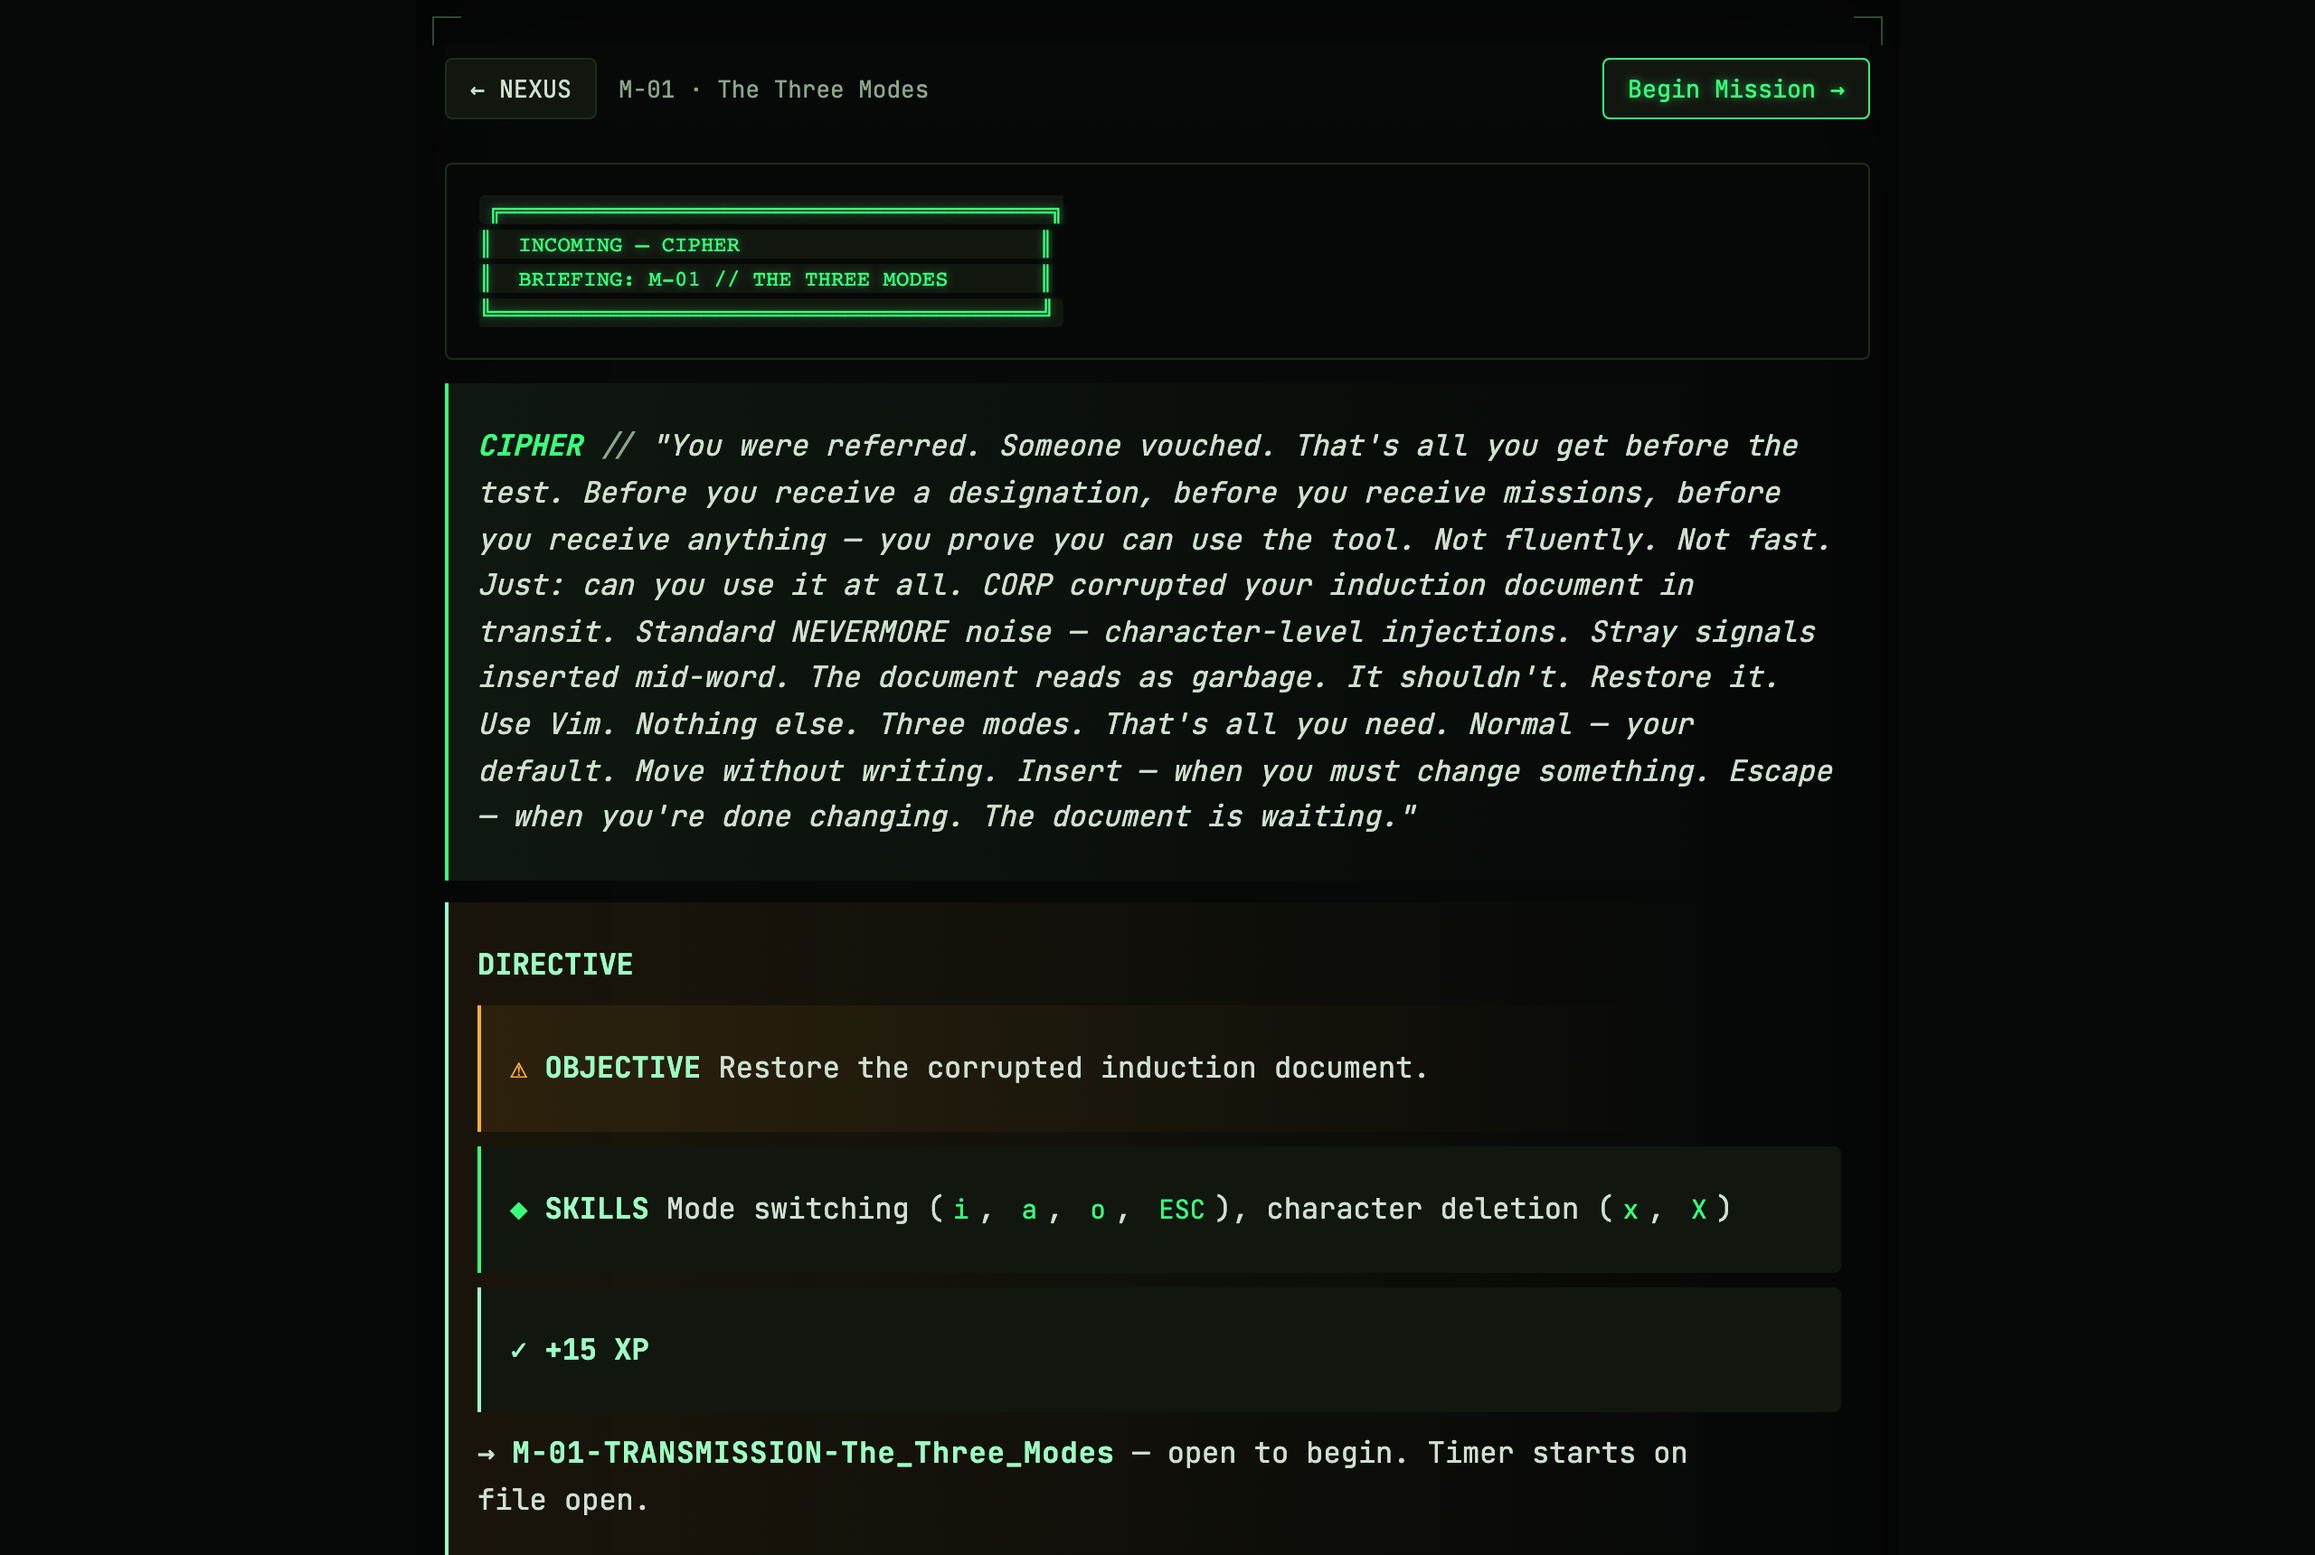
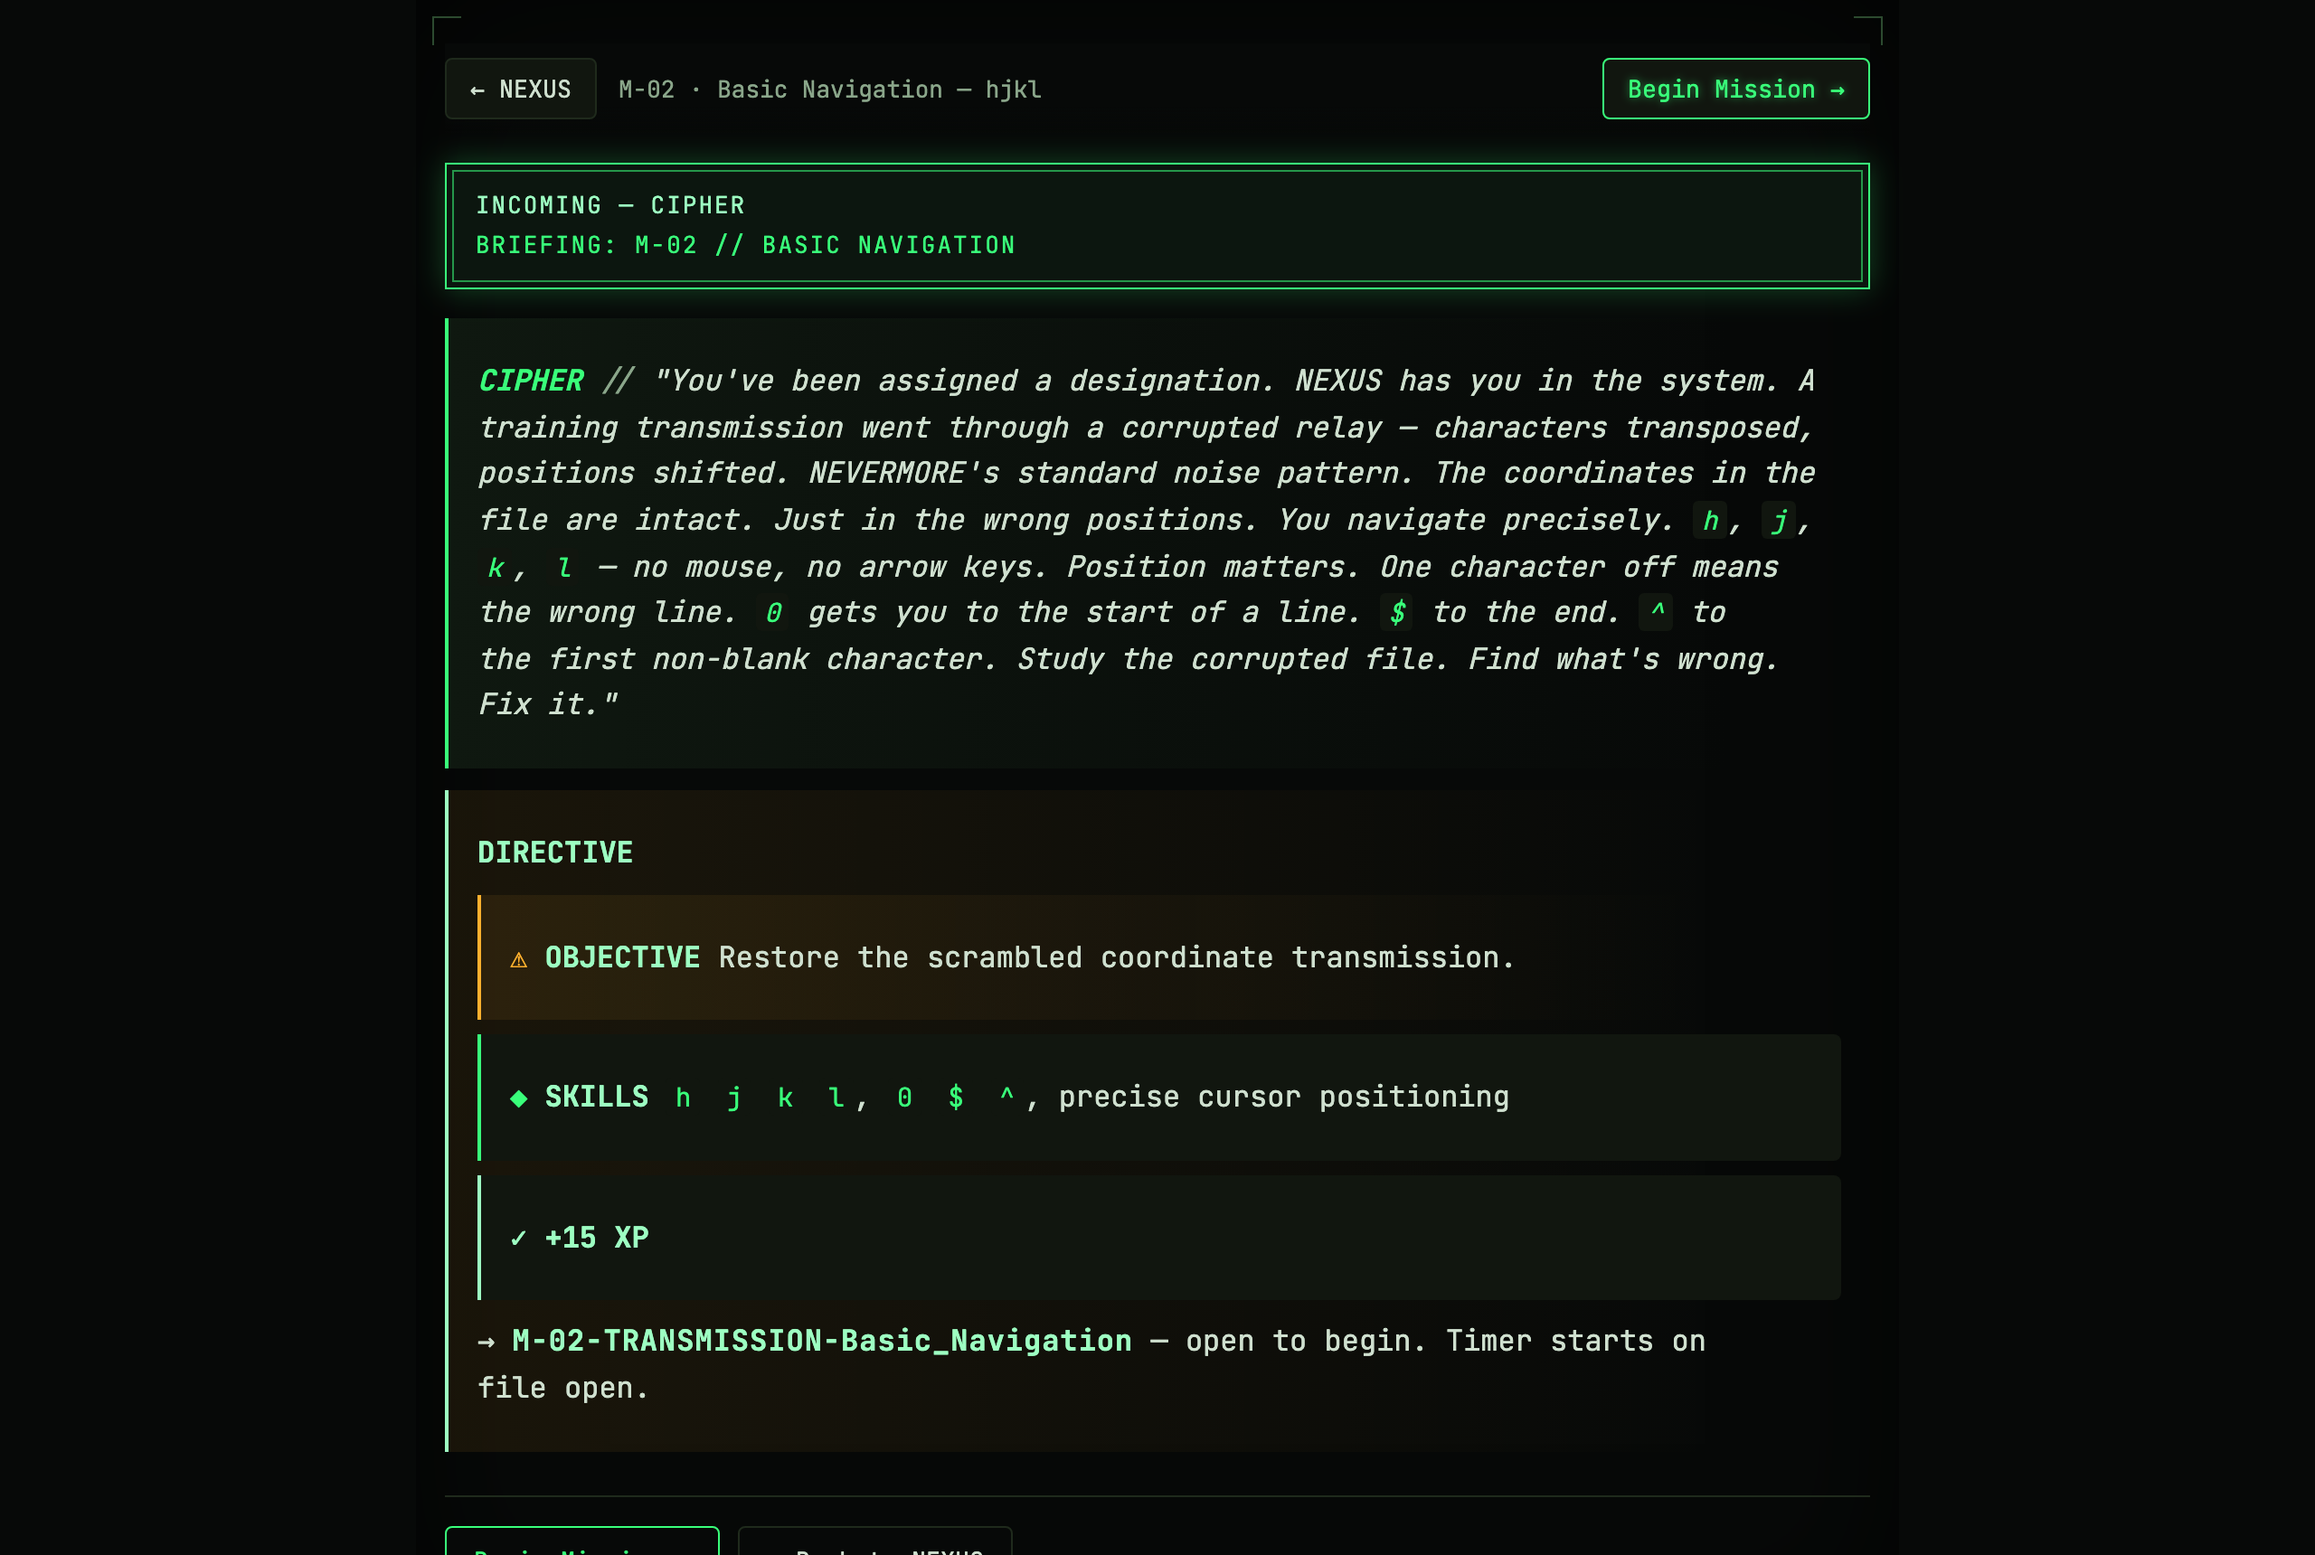
fix(adapter-web): render box-drawing header boxes as CSS frames (.nv-termbox)
Glyph ╔═╗ boxes never aligned: box-drawing chars render at a different
advance width than Latin text in the bundled font (and the JBM latin
subset lacks them entirely → system fallback). markdown.ts now extracts
the inner text rows and draws the frame in CSS — always aligned, themed
via --nv-* tokens. Fixes all ~100 briefing + LOOT boxes; zero content edits.

diff --git a/packages/adapter-web/src/styles.css b/packages/adapter-web/src/styles.css
@@ -497,6 +497,21 @@ button { font-family: inherit; cursor: pointer; }
    font and break box alignment). System mono renders letters + box-drawing + em-dash
    at one uniform cell width, so the ╔══╗ frames line up. */
 .nv-md pre code { font-family: ui-monospace, monospace; font-size: 12px; color: var(--nv-accent); white-space: pre; letter-spacing: 0; text-shadow: 0 0 calc(5px * var(--nv-glow)) color-mix(in oklab, var(--nv-accent) 40%, transparent); }
+
+/* terminal box — CSS-drawn double-line frame (replaces glyph ╔═╗ boxes; always aligned).
+   Produced by markdown.ts termBoxes(): .nv-termbox > .nv-termbox-row[.nv-termbox-head]. */
+.nv-md .nv-termbox {
+  position: relative; margin: var(--nv-s4) 0; padding: var(--nv-s3) var(--nv-s4);
+  border: 1px solid var(--nv-accent);
+  background: color-mix(in oklab, var(--nv-accent) 7%, var(--nv-bg));
+  box-shadow: 0 0 calc(16px * var(--nv-glow)) color-mix(in oklab, var(--nv-accent) 25%, transparent);
+}
+.nv-md .nv-termbox::before {                 /* inner line → double-frame terminal look */
+  content: ""; position: absolute; inset: 3px; pointer-events: none;
+  border: 1px solid color-mix(in oklab, var(--nv-accent) 55%, transparent);
+}
+.nv-md .nv-termbox-row { font-family: var(--nv-mono); font-size: var(--nv-fs-sm); letter-spacing: 1px; line-height: 1.7; color: var(--nv-accent); }
+.nv-md .nv-termbox-head { color: var(--nv-accent-hot); text-transform: uppercase; }
 .nv-md code { font-family: var(--nv-mono); background: var(--nv-panel); padding: 1px 5px; border-radius: 3px; font-size: 0.9em; color: var(--nv-accent); }
 .nv-md hr { border: none; border-top: 1px solid var(--nv-border); margin: 16px 0; }
 

diff --git a/packages/adapter-web/src/ui/markdown.ts b/packages/adapter-web/src/ui/markdown.ts
@@ -17,8 +17,32 @@ import { marked } from 'marked';
 
 marked.setOptions({ gfm: true, breaks: false });
 
+function escapeHtml(s: string): string {
+  return s.replace(/&/g, '&amp;').replace(/</g, '&lt;').replace(/>/g, '&gt;');
+}
+
+/**
+ * Box-drawing "terminal boxes" (```ascii framed with ╔═╗ ║ ╚═╝) → a CSS-drawn box.
+ * The borders are NOT rendered as glyphs (box-drawing chars render at a different
+ * advance width than Latin text in the bundled font, so a glyph frame never aligns).
+ * Instead the inner text rows are extracted and the frame is drawn with CSS (.nv-termbox),
+ * which always aligns and themes via --nv-* tokens. Non-box ``` blocks are left untouched.
+ */
+function termBoxes(md: string): string {
+  return md.replace(/```(?:ascii)?[ \t]*\r?\n([\s\S]*?)\r?\n```/g, (m, body: string) => {
+    const lines = body.split('\n');
+    if (!lines[0] || !lines[0].trimStart().startsWith('╔')) return m; // not a box → leave as code
+    const inner = lines.slice(1, -1).map((l) =>
+      l.replace(/^\s*║\s?/, '').replace(/\s*║\s*$/, '').trimEnd());
+    const rows = inner
+      .map((t, i) => `<div class="nv-termbox-row${i === 0 ? ' nv-termbox-head' : ''}">${escapeHtml(t) || '&nbsp;'}</div>`)
+      .join('');
+    return `<div class="nv-termbox">${rows}</div>`;
+  });
+}
+
 function preprocess(md: string): string {
-  return md
+  return termBoxes(md)
     .replace(/\[\[([^\]|]+)\|([^\]]+)\]\]/g, '$2')
     .replace(/\[\[([^\]]+)\]\]/g, (_m, p: string) => p.split('/').pop() ?? p)
     .replace(/^((?:>\s*)+)\[!(\w+)\]([+-]?)\s*(.*)$/gm, (_m, quote: string, type: string, _fold: string, title: string) => {
